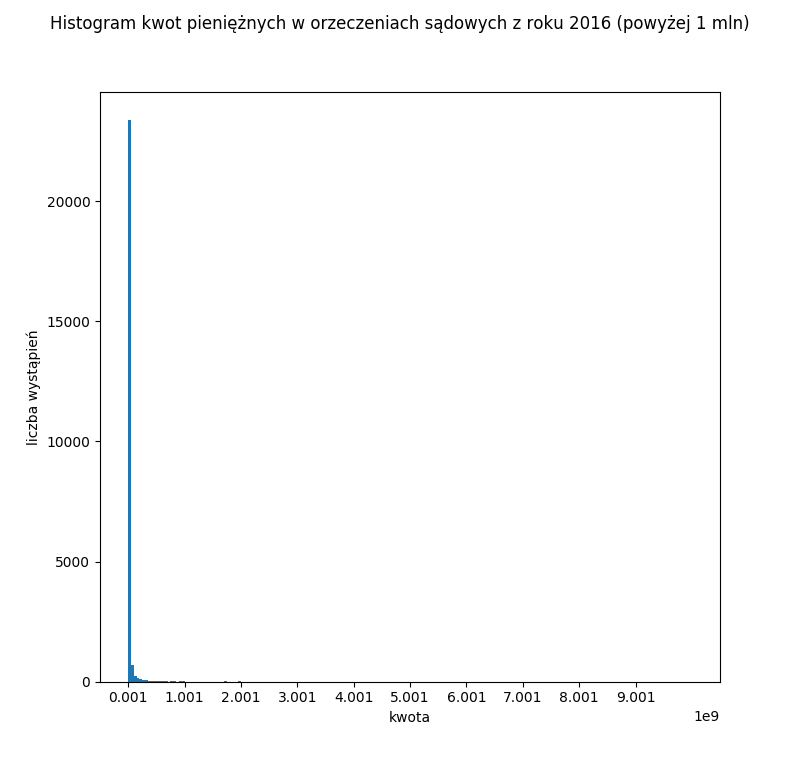
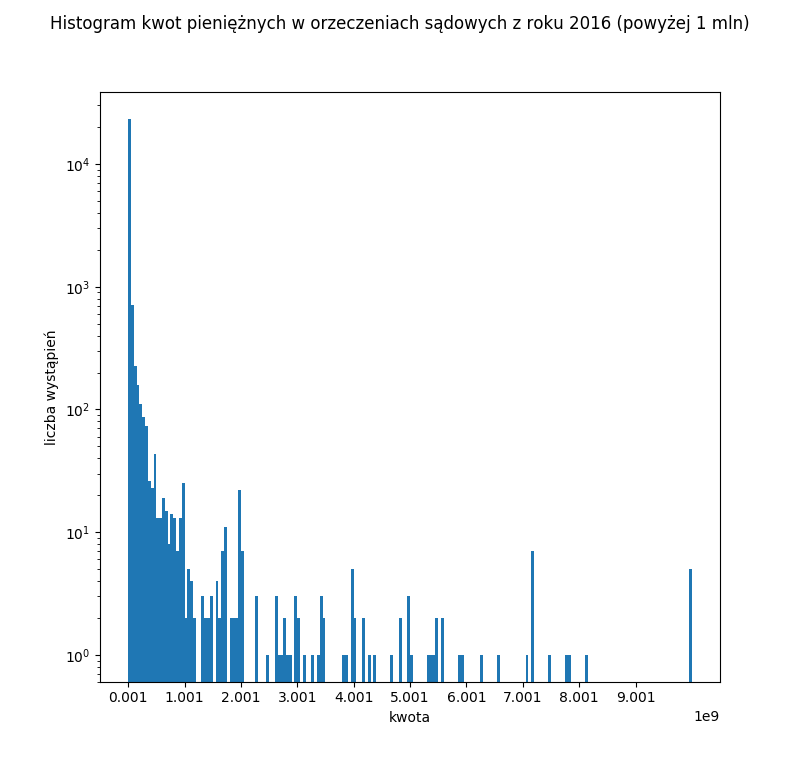
Minor refinements

diff --git a/1-regexp/README.md b/1-regexp/README.md
@@ -1,6 +1,13 @@
 Zadanie 1 - regexp
 ==================
 
-- histogramy do zadań 1 i 2 znajdują się w plikach _hist*.png_
-- zadanie 3: 2493 orzeczeń z odniesieniem do *artykułu 445 Ustawy z dnia 23 kwietnia 1964 r. - Kodeks cywilny*
-- zadanie 4: 18562 orzeczeń ze słowem *szkoda*
+- Wyniki zadań 1 i 2: histogramy znajdują się w plikach _hist*.png_:
+    - *hist.png* - histogram dla wszystkich kwot pieniężnych
+    - *hist_big.png* - histogram dla kwot powyżej 1 mln złotych
+    - *hist_small.png* - histogram dla kwot poniżej 1 mln złotych
+
+  Uwaga! Pionowa oś histogramów jest w skali logarytmicznej!
+
+- Wynik zadania 3: 2493 orzeczeń z odniesieniem do *artykułu 445 Ustawy z dnia 23 kwietnia 1964 r. - Kodeks cywilny*
+
+- Wynik zadania 4: 18562 orzeczeń ze słowem *szkoda*
